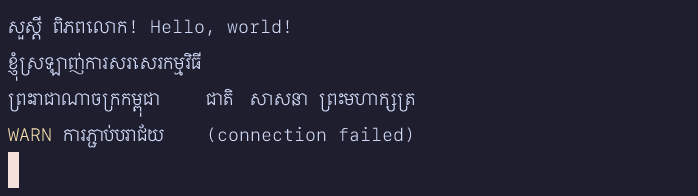
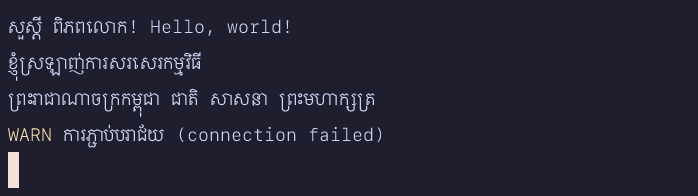
fix(kte-term): put the cursor on real syllable boundaries
Inside a Khmer word, column positions were an even split of the word's
width, so moving the cursor left landed mid-syllable. Column edges now
come from the shaped glyphs: each cell's text offset is mapped to the x of
its HarfBuzz cluster (interpolated inside a cluster the shaper keeps
whole).

Text now flows without gaps: each unit starts where the previous one
ends, and runs of never-written cells stretch or shrink to return the
line to the grid, so the cursor sits right after a narrow Khmer word
instead of a cell later. A cursor on an empty cell is one cell wide.

Also: --dump prints the cursor, and KTE_TRACE=1 logs pty output in
snapshot runs.

Changed region(s): [[0.2407, 0.4592, 0.6017, 0.5816], [0.2708, 0.6429, 0.6017, 0.7347]]

diff --git a/apps/kte-term/src/render.rs b/apps/kte-term/src/render.rs
@@ -156,6 +156,29 @@ struct Shaped {
     glyphs: Vec<ShapedGlyph>,
     /// Total advance in pixels at the face's render size.
     advance_px: f32,
+    /// Shaping clusters in text order: `(byte offset, left px, right px)`.
+    clusters: Vec<(usize, f32, f32)>,
+}
+
+impl Shaped {
+    /// Horizontal position (natural size, from the start) where the text at
+    /// byte `offset` begins on screen. Inside a cluster that the shaper kept
+    /// whole (a Khmer syllable), the position is interpolated across it.
+    fn x_at(&self, offset: usize, text_len: usize) -> f32 {
+        let i = match self.clusters.iter().rposition(|c| c.0 <= offset) {
+            Some(i) => i,
+            None => return 0.0,
+        };
+        let (start, left, right) = self.clusters[i];
+        if offset == start {
+            return left;
+        }
+        let next = self.clusters.get(i + 1).map_or(text_len, |c| c.0);
+        if next <= start {
+            return right;
+        }
+        left + (right - left) * (offset - start) as f32 / (next - start) as f32
+    }
 }
 
 pub struct Renderer {
@@ -190,6 +213,9 @@ enum Unit {
         cells: usize,
         fg: u32,
         natural: f32,
+        /// Left edge of each of its columns at natural size, from the
+        /// shaped glyphs, so the cursor lands on real syllable boundaries.
+        col_x: Vec<f32>,
     },
 }
 
@@ -331,10 +357,26 @@ impl Renderer {
             )
         };
         let advance: i32 = glyphs.iter().map(|g| g.x_advance).sum();
+        let to_px = px / upem;
+        let mut clusters: Vec<(usize, f32, f32)> = Vec::new();
+        let mut pen = 0.0f32;
+        for g in &glyphs {
+            let (left, right) = (pen, pen + g.x_advance as f32 * to_px);
+            match clusters.iter_mut().find(|c| c.0 == g.cluster as usize) {
+                Some(c) => {
+                    c.1 = c.1.min(left);
+                    c.2 = c.2.max(right);
+                }
+                None => clusters.push((g.cluster as usize, left, right)),
+            }
+            pen = right;
+        }
+        clusters.sort_by_key(|c| c.0);
         let shaped = Rc::new(Shaped {
             face,
             glyphs,
-            advance_px: advance as f32 * px / upem,
+            advance_px: advance as f32 * to_px,
+            clusters,
         });
         if self.shaped.len() > 4096 {
             self.shaped.clear();
@@ -363,6 +405,8 @@ impl Renderer {
             let (fg, _) = self.theme.cell_colors(&cell.attrs);
             let mut text = cell.text.clone();
             let mut cells = cell.width.max(1) as usize;
+            // (byte offset, width) of each cell joined into this unit.
+            let mut parts = vec![(0usize, cells)];
             while col + cells < term.cols() {
                 let next = term.cell(row, col + cells);
                 if next.width == 0 || next.text.is_empty() {
@@ -374,16 +418,28 @@ impl Renderer {
                 if !same_word && !kte_core::unicode::joins_next(&text, &next.text) {
                     break;
                 }
+                parts.push((text.len(), next.width as usize));
                 text.push_str(&next.text);
                 cells += next.width as usize;
             }
             let shaped = self.shape(&text);
             let unit = if shaped.face == KHMER {
+                let mut col_x = Vec::with_capacity(cells);
+                for (i, &(offset, width)) in parts.iter().enumerate() {
+                    let x0 = shaped.x_at(offset, text.len());
+                    let x1 = parts
+                        .get(i + 1)
+                        .map_or(shaped.advance_px, |p| shaped.x_at(p.0, text.len()));
+                    for j in 0..width {
+                        col_x.push(x0 + (x1 - x0) * j as f32 / width as f32);
+                    }
+                }
                 Unit::Khmer {
                     text,
                     cells,
                     fg,
                     natural: shaped.advance_px,
+                    col_x,
                 }
             } else {
                 Unit::Fixed { text, cells, fg }
@@ -394,32 +450,36 @@ impl Renderer {
         out
     }
 
-    /// Lays a row out in pixels. Text starts at its grid position unless the
-    /// text before it needs the room; Khmer words keep their natural width,
-    /// scaled by `k`. Returns the placement, the column edges, and where the
-    /// last non-empty unit ends.
+    /// Lays a row out in pixels. Text flows: each unit starts where the one
+    /// before it ends, so a Khmer word (natural width, scaled by `k`) never
+    /// leaves a gap or overlaps what follows. Empty cells are elastic: they
+    /// shrink or grow so that a run of them ends back on the grid. Latin-only
+    /// text therefore stays exactly on the grid. Returns the placement, the
+    /// column edges, and where the last non-empty unit ends.
     fn place(units: Vec<(usize, Unit)>, cols: usize, cw: f32, k: f32) -> (Placed, Vec<f32>, f32) {
         let mut xs = vec![0.0f32; cols + 1];
         let mut placed = Vec::with_capacity(units.len());
         let (mut pen, mut content_end) = (0.0f32, 0.0f32);
         for (col, unit) in units {
             let grid = col as f32 * cw;
-            let x = grid.max(pen);
+            let x = pen;
             let cells = unit.cells();
             let w = match &unit {
                 Unit::Empty => (grid + cw - x).max(0.0),
                 Unit::Fixed { cells, .. } => *cells as f32 * cw,
                 Unit::Khmer { natural, .. } => natural * k,
             };
-            // Columns inside the unit share its width evenly; a unit narrower
-            // than its grid cells (other than an empty one) keeps the grid.
-            let span = match unit {
-                Unit::Empty => w,
-                _ => w.max(cells as f32 * cw),
-            };
+            // Columns inside a non-Khmer unit share its width evenly.
+            let span = w;
             for i in 0..cells {
+                let offset = match &unit {
+                    Unit::Khmer { col_x, natural, .. } => {
+                        col_x.get(i).copied().unwrap_or(0.0) * w / natural.max(f32::EPSILON)
+                    }
+                    _ => span * i as f32 / cells as f32,
+                };
                 if let Some(edge) = xs.get_mut(col + i) {
-                    *edge = x + span * i as f32 / cells as f32;
+                    *edge = x + offset;
                 }
             }
             pen = x + w;
@@ -496,7 +556,12 @@ impl Renderer {
         if show_cursor {
             let xs = &layouts[cursor.0].1;
             let x0 = xs[cursor_span.start.min(term.cols())];
-            let x1 = xs[cursor_span.end.min(term.cols())].max(x0 + cw);
+            let on_text = !term.cell(cursor.0, cursor_span.start).text.is_empty();
+            let x1 = if on_text {
+                xs[cursor_span.end.min(term.cols())].max(x0 + cw * 0.5)
+            } else {
+                x0 + cw
+            };
             let (x, w) = ((pad + x0).round() as i32, (x1 - x0).round() as i32);
             let y = pad as i32 + cursor.0 as i32 * ch;
             if overlay.focused {
@@ -585,6 +650,9 @@ mod tests {
             cells,
             fg: 0,
             natural,
+            col_x: (0..cells)
+                .map(|i| natural * i as f32 / cells as f32)
+                .collect(),
         }
     }
 
@@ -622,10 +690,32 @@ mod tests {
     }
 
     #[test]
-    fn narrow_word_keeps_the_grid() {
+    fn text_after_a_narrow_word_follows_it() {
         let units = vec![(0, khmer(3, 12.0)), (3, fixed(1))];
         let (placed, xs, _) = Renderer::place(units, 4, 10.0, 1.0);
-        assert_eq!(placed[1].2, 30.0);
-        assert_eq!(&xs[..4], &[0.0, 10.0, 20.0, 30.0]);
+        assert_eq!(placed[1].2, 12.0); // no gap after the 12 px word
+        assert_eq!(&xs[..4], &[0.0, 4.0, 8.0, 12.0]);
+    }
+
+    #[test]
+    fn cursor_columns_follow_glyphs() {
+        // Two cells; the first syllable is 25 px wide, the second 5 px.
+        let unit = Unit::Khmer {
+            text: String::new(),
+            cells: 2,
+            fg: 0,
+            natural: 30.0,
+            col_x: vec![0.0, 25.0],
+        };
+        let (_, xs, _) = Renderer::place(vec![(0, unit)], 2, 10.0, 1.0);
+        assert_eq!(&xs[..], &[0.0, 25.0, 30.0]);
+    }
+
+    #[test]
+    fn empty_cells_resync_to_the_grid_after_a_narrow_word() {
+        let units = vec![(0, khmer(3, 12.0)), (3, Unit::Empty), (4, fixed(1))];
+        let (placed, xs, _) = Renderer::place(units, 5, 10.0, 1.0);
+        assert_eq!(xs[3], 12.0); // a cursor here sits right after the word
+        assert_eq!(placed[2].2, 40.0); // text after the empty cell is back on the grid
     }
 }

diff --git a/apps/kte-term/src/main.rs b/apps/kte-term/src/main.rs
@@ -192,6 +192,9 @@ fn run_live(o: &Options, term: &mut Terminal) -> Result<(), String> {
             Ok(bytes) => {
                 seen_output = true;
                 last_output = Instant::now();
+                if std::env::var_os("KTE_TRACE").is_some() {
+                    eprintln!("pty> {:?}", String::from_utf8_lossy(&bytes));
+                }
                 term.feed(&bytes);
                 pty.write(&term.take_responses());
             }
@@ -227,8 +230,9 @@ fn snapshot(o: &Options, path: &str) -> Result<(), String> {
     save_png(&frame, path)
 }
 
-/// Prints every non-blank cell: column, width, text and codepoints.
+/// Prints the cursor and every non-blank cell: column, width, text and codepoints.
 fn dump(term: &Terminal) {
+    println!("cursor: {:?}", term.cursor());
     for row in 0..term.rows() {
         let cells: Vec<String> = (0..term.cols())
             .filter_map(|col| {

diff --git a/apps/kte-term/src/fonts.rs b/apps/kte-term/src/fonts.rs
@@ -105,6 +105,8 @@ pub fn read(source: &FontSource) -> Result<Vec<u8>, String> {
 #[derive(Debug, Clone, Copy)]
 pub struct ShapedGlyph {
     pub id: u32,
+    /// UTF-8 byte offset of the source text this glyph belongs to.
+    pub cluster: u32,
     pub x_advance: i32,
     pub x_offset: i32,
     pub y_offset: i32,
@@ -190,6 +192,7 @@ impl Face {
             .zip(buffer.glyph_positions())
             .map(|(info, pos)| ShapedGlyph {
                 id: info.glyph_id,
+                cluster: info.cluster,
                 x_advance: pos.x_advance,
                 x_offset: pos.x_offset,
                 y_offset: pos.y_offset,

diff --git a/apps/kte-term/README.md b/apps/kte-term/README.md
@@ -92,7 +92,7 @@ Arrow keys, Home/End, Page Up/Down, Delete, F1–F12 and Ctrl/Alt combinations s
 - **Terminal model:** [`kte-terminal`](../../crates/kte-terminal): VT parsing, grid, cursor, selection.
 - **Rendering:** CPU rasterization with `tiny-skia`, shown with `softbuffer`. Each frame draws all backgrounds first, then all glyphs, so Khmer subscripts and above-vowels that extend into the next row are never covered or clipped.
 - **Khmer shaping:** each Khmer word (consecutive Khmer cells of one color) is shaped once with HarfBuzz ([`harfrust`](https://github.com/harfbuzz/harfrust)) at one font size. Cells that `wcwidth()` split apart are joined again first.
-- **Grid in logic, flow in pixels:** the terminal grid stays exactly what the application expects, but a Khmer word is drawn at its natural width. If it needs more room than its cells, the text and cursor after it on that line move right, and cells the application never wrote give the room back. Only if a line would run past the window is its Khmer compressed, by one factor for the whole line. Fitting each syllable into its own cells instead made letters alternate between big and small.
+- **Grid in logic, flow in pixels:** the terminal grid stays exactly what the application expects, but a Khmer word is drawn at its natural width. Text on a line flows: each word starts where the previous one ends, so there are no gaps or overlaps, and cells the application never wrote stretch or shrink so the rest of the line returns to the grid. The cursor is placed using the shaped glyphs' real positions, so it always sits on a syllable boundary. Only if a line would run past the window is its Khmer compressed, by one factor for the whole line. Fitting each syllable into its own cells instead made letters alternate between big and small.
 - **Shell:** [`portable-pty`](https://crates.io/crates/portable-pty) runs your login shell (ConPTY on Windows), with `TERM=xterm-256color` and a UTF-8 locale.
 
 ## Known limitations

diff --git a/docs/adr/0005-kte-term-architecture.md b/docs/adr/0005-kte-term-architecture.md
@@ -15,7 +15,7 @@ Phase 2 builds the standalone terminal. Two choices shape it:
 - Render on the CPU: glyph outlines from `read-fonts` (via `harfrust`), rasterized with `tiny-skia`, cached per glyph and size, and presented with `softbuffer`. Draw backgrounds first and glyphs second, so Khmer marks that extend past a row are never covered.
 - Keep a headless `--snapshot` mode that renders to PNG, optionally running a real shell and typing into it. It is used for development and in CI on all three platforms.
 - Default `kte-term` to the **Legacy** model for the platform (Apple or glibc rules). Offer `--model wide` for the spec layout.
-- **Grid in logic, flow in pixels.** Under Legacy, applications give Khmer fewer cells than it needs (on macOS, spacing vowels get none). Fitting each syllable into its own cells made letters alternate between big and small. Instead, each Khmer word is drawn at its natural width with one font size; when it needs more room than its cells, the rest of that line shifts right, and cells the application never wrote absorb the shift. A line that would run past the window has its Khmer compressed by one shared factor. Cursor, selection and mouse hit-testing follow the same pixel layout.
+- **Grid in logic, flow in pixels.** Under Legacy, applications give Khmer fewer cells than it needs (on macOS, spacing vowels get none). Fitting each syllable into its own cells made letters alternate between big and small. Instead, each Khmer word is drawn at its natural width with one font size; the text after it flows on directly (no gap, no overlap), and runs of cells the application never wrote stretch or shrink to bring the line back to the grid. Cursor positions inside a word come from the shaped glyphs' cluster positions, not an even split of the word's width. A line that would run past the window has its Khmer compressed by one shared factor. Cursor, selection and mouse hit-testing follow the same pixel layout.
 
 ## Consequences
 

diff --git a/CHANGELOG.md b/CHANGELOG.md
@@ -26,7 +26,7 @@ adheres to [Semantic Versioning](https://semver.org/spec/v2.0.0.html).
 - `kte-term` MVP: window, shell on a pty, CPU rendering with HarfBuzz-shaped Khmer, keyboard and IME input, mouse selection, copy and paste (bracketed paste), `--snapshot` mode with live shell typing, macOS app bundle script.
 - `kte-terminal`: application cursor keys (mode 1) and bracketed paste (mode 2004); Legacy-model cell segmentation.
 - `kte-cell`: `fit_with_stretch`.
-- `kte-term`: Khmer words keep one natural size ("grid in logic, flow in pixels" layout) instead of being squeezed syllable by syllable; host default fonts (SF Mono + Khmer Sangam MN on macOS, Cascadia Mono/Consolas + Leelawadee UI on Windows, fontconfig on Linux); Khmer sized to match Latin capital height (`--khmer-size`); glyphs stay visible under the block cursor; `--dump`.
+- `kte-term`: Khmer words keep one natural size ("grid in logic, flow in pixels" layout) instead of being squeezed syllable by syllable; host default fonts (SF Mono + Khmer Sangam MN on macOS, Cascadia Mono/Consolas + Leelawadee UI on Windows, fontconfig on Linux); Khmer sized to match Latin capital height (`--khmer-size`); glyphs stay visible under the block cursor; cursor placed on real syllable boundaries from shaped glyph positions; `--dump` (cells and cursor).
 - Research 0003 (shell compatibility); ADR 0005 (kte-term architecture).
 - CI: kte-term snapshots on Linux, macOS and Windows, including typing Khmer into bash.
 - Research 0002: the spec table fits Linux default fonts (98–100%) and Windows' Leelawadee UI (80–86%); `Measure fonts` workflow.
